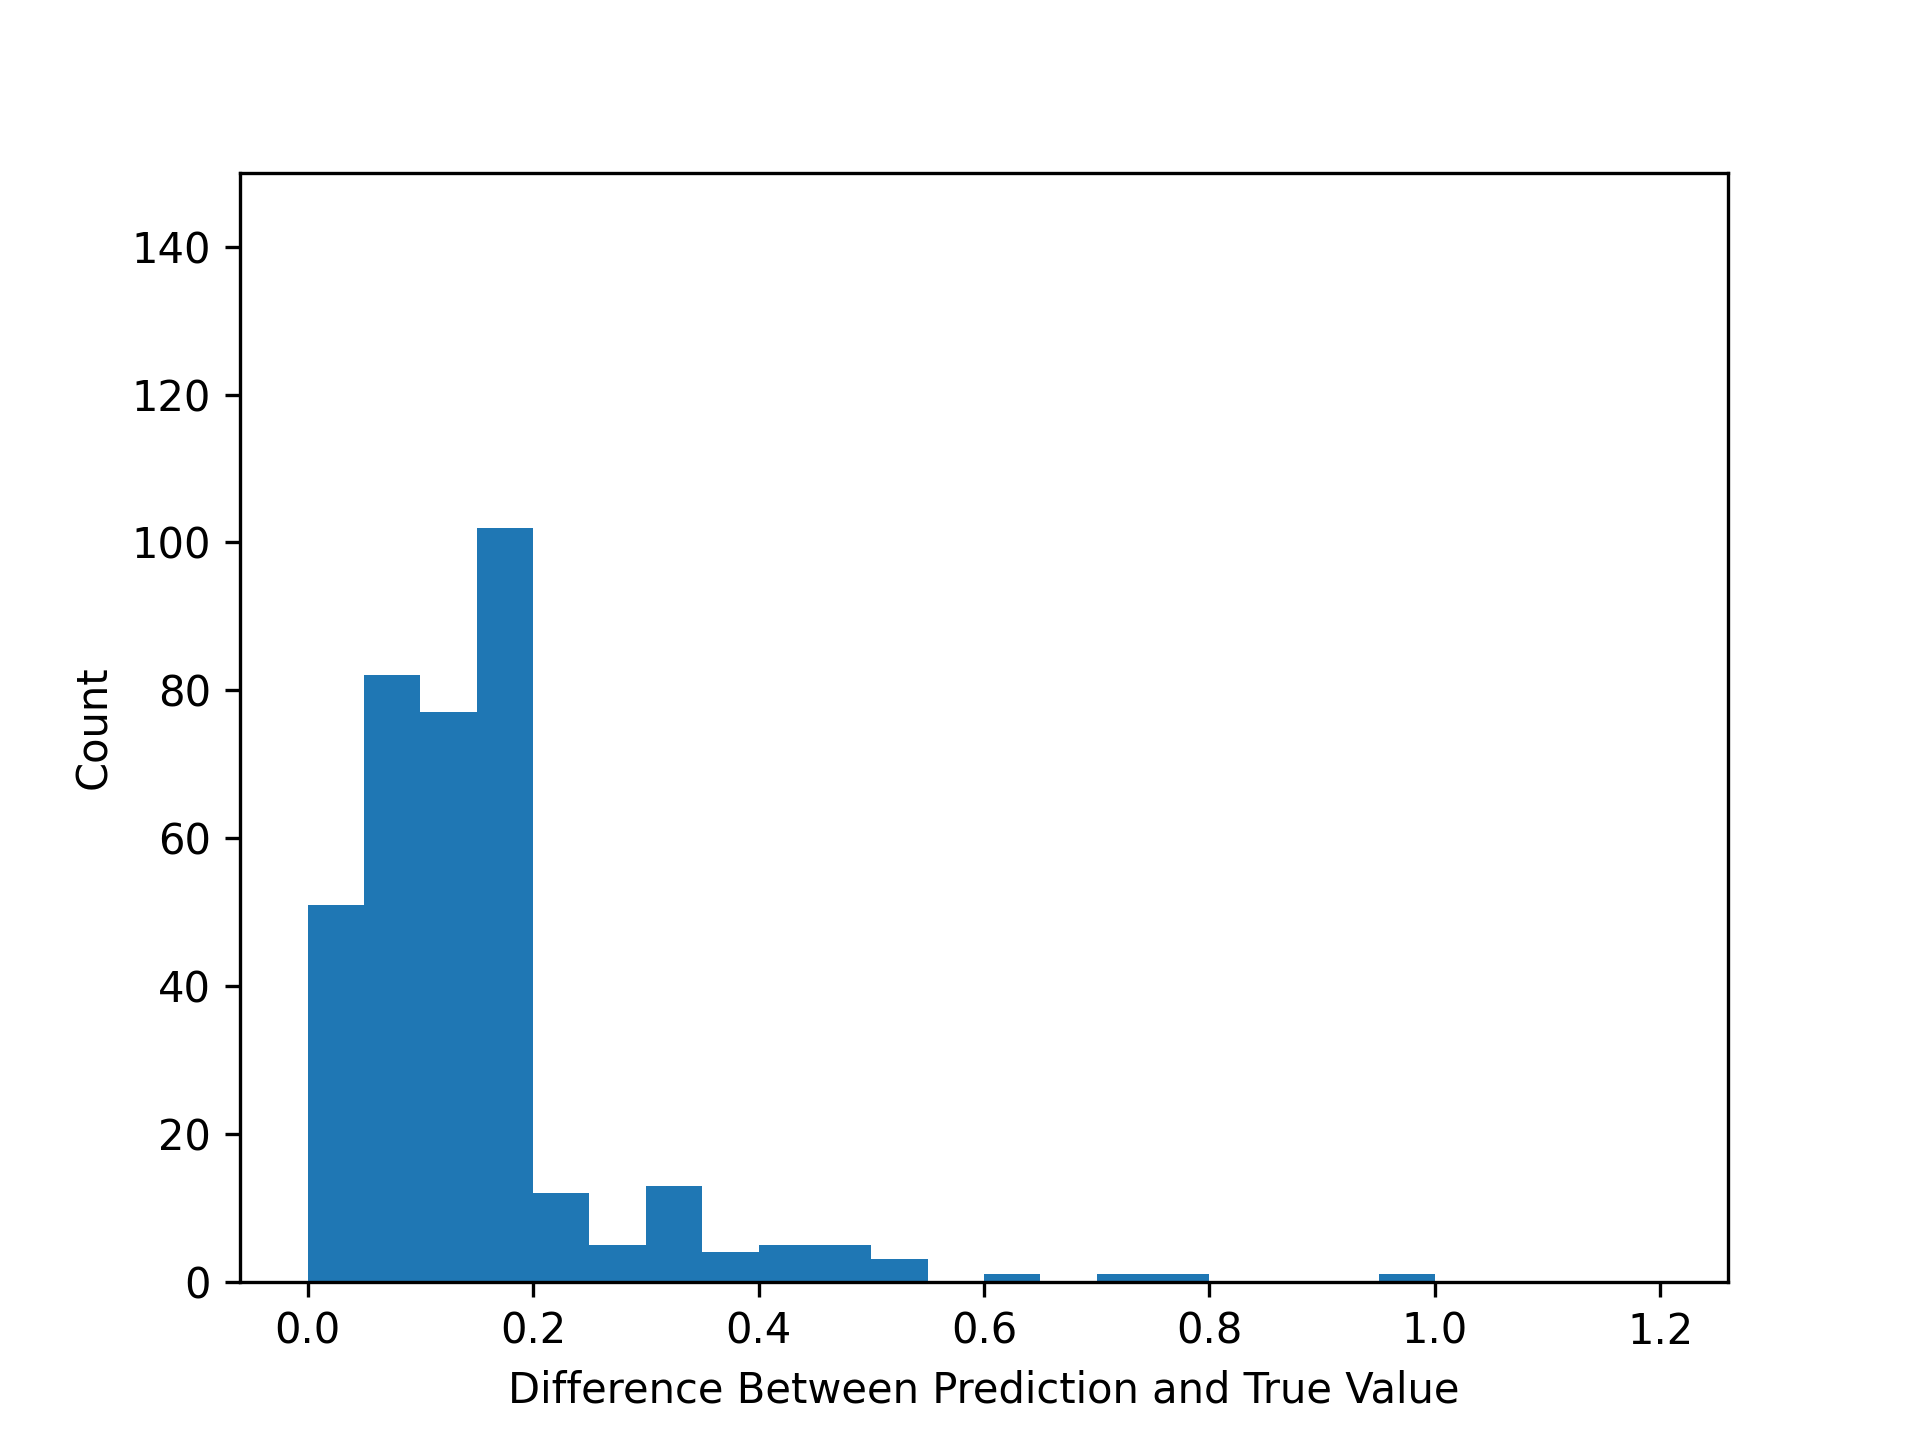
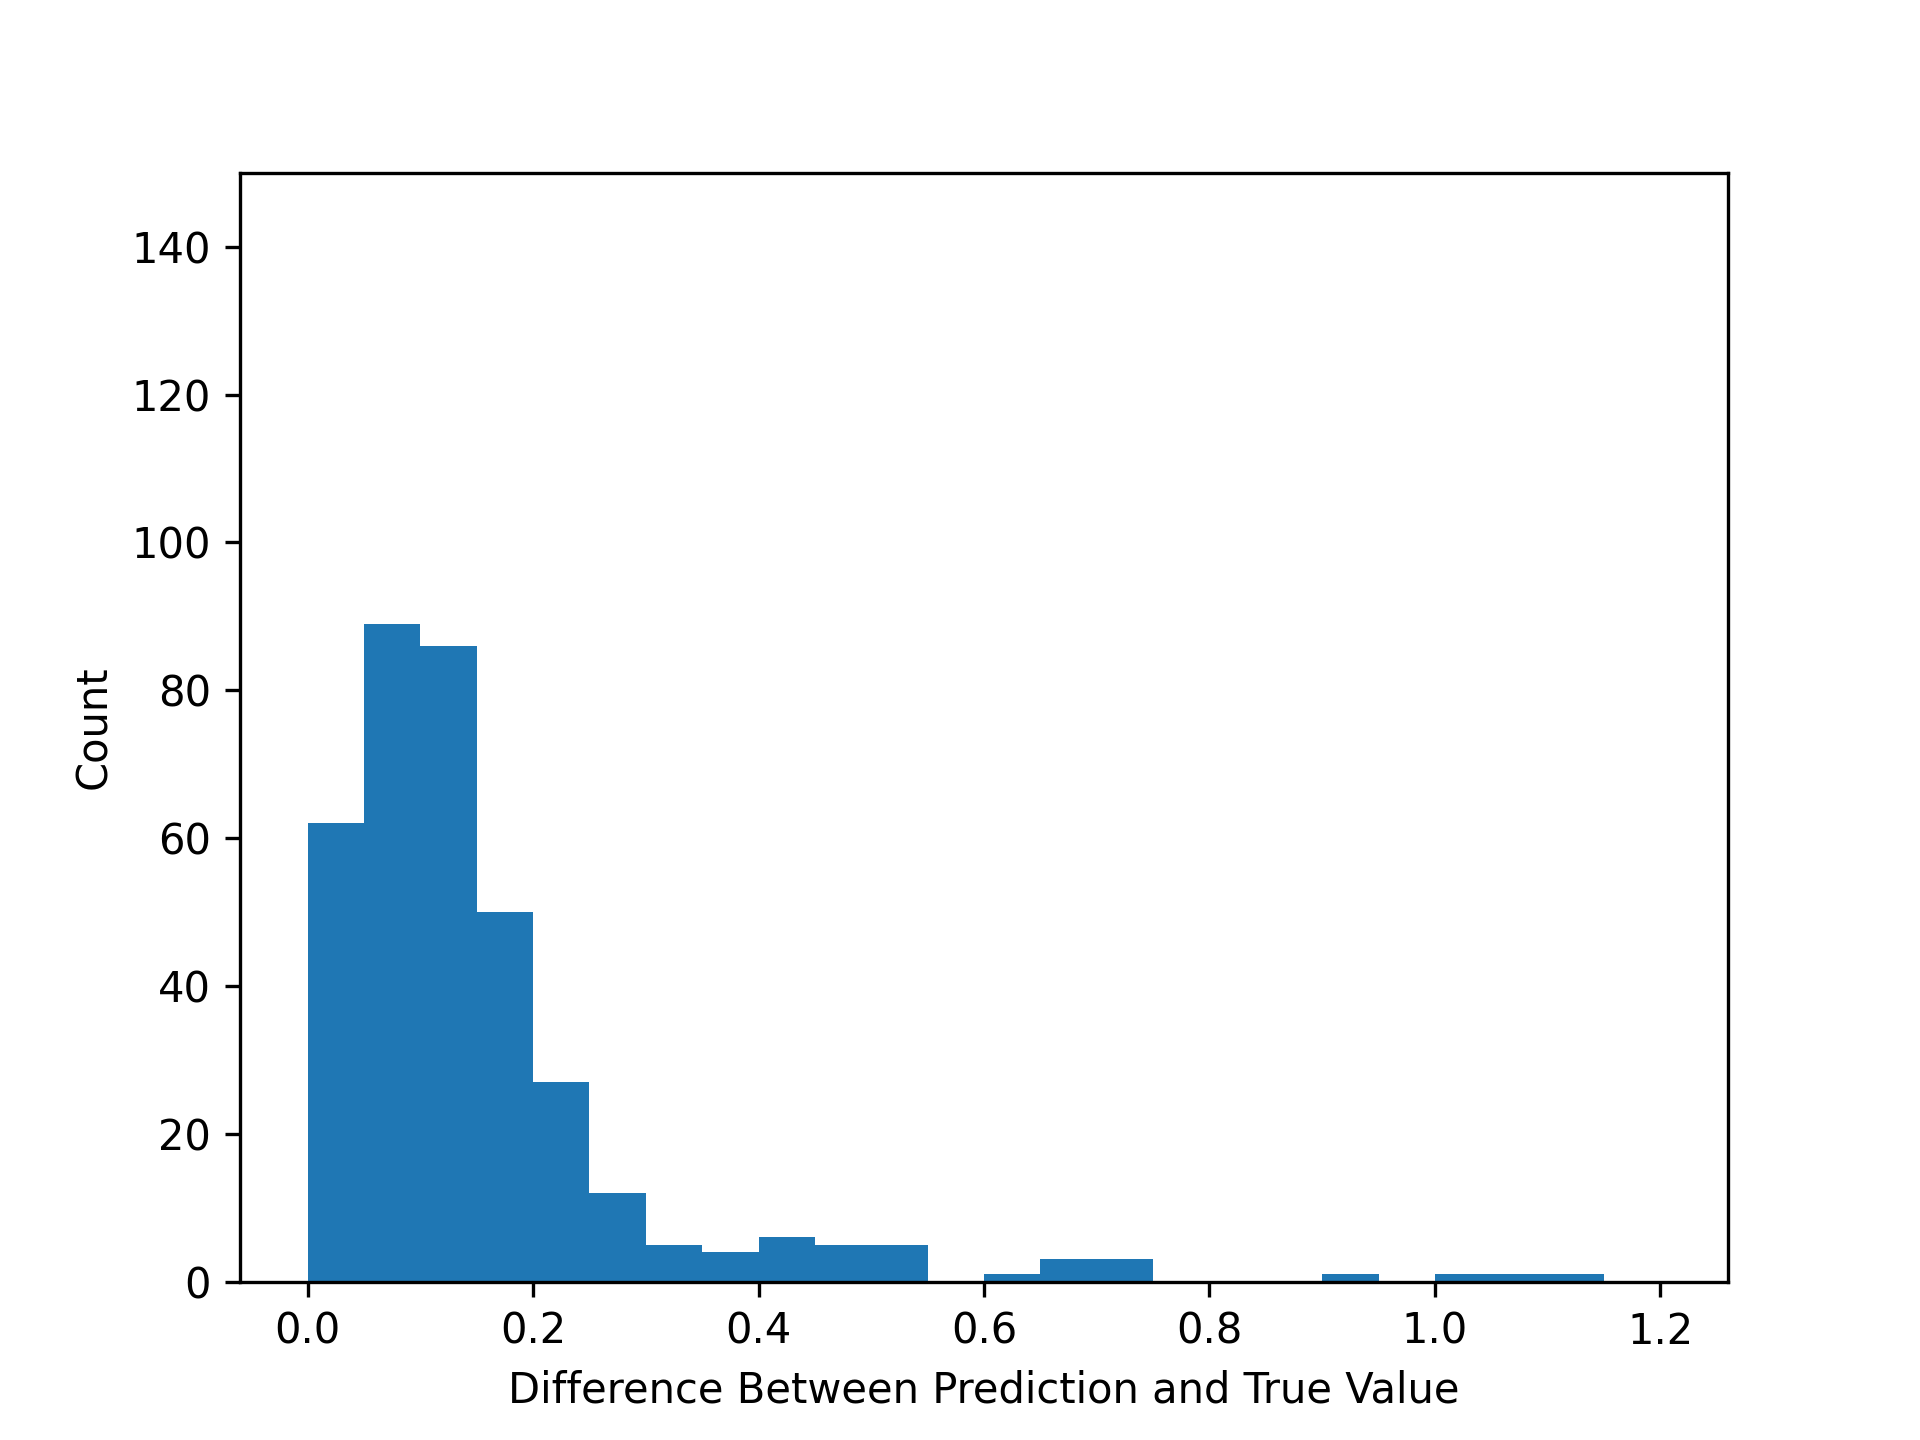
standardized features across models
standardized features across linear regression and random forest

diff --git a/baseline_linear_regression_best_features.py b/baseline_linear_regression_best_features.py
@@ -69,19 +69,20 @@ outcome2 = "Balance of Urban Investment Bond(CNY,B) / GDP(CNY,B)"
 features1 = [
     "Liability Ratio(%)", 
     "Debt Ratio(%)", 
-    "Comprehensive Financial Resources(CNY,B)",
+    "Growth Rate of GDP(%)",
     "Fiscal Self-sufficiency(%)",
-    "Revenue of Government-Managed Funds(CNY,B)", 
-    "Real Estate Investment(CNY,B)"
+    "Budget Revenue(CNY,B)",
+    "State-owned Land Transfer Income/Budget Revenue(%)"
 ]
-features1 = ["Debt Ratio(%)"]
 
 # optimal features for outcome 2
 features2 = [
-    "Comprehensive Financial Resources(CNY,B)", 
+    "Liability Ratio(%)", 
+    "Debt Ratio(%)", 
+    "Growth Rate of GDP(%)",
     "Fiscal Self-sufficiency(%)",
-    "Revenue of Government-Managed Funds(CNY,B)", 
-    "Real Estate Investment(CNY,B)" 
+    "Budget Revenue(CNY,B)",
+    "State-owned Land Transfer Income/Budget Revenue(%)"
 ]
 
 outcomes = [outcome1, outcome2] # list of possible outcomes 

diff --git a/random_forest_regressor.py b/random_forest_regressor.py
@@ -69,18 +69,20 @@ outcome2 = "Balance of Urban Investment Bond(CNY,B) / GDP(CNY,B)"
 features1 = [
     "Liability Ratio(%)", 
     "Debt Ratio(%)", 
-    "Comprehensive Financial Resources(CNY,B)",
+    "Growth Rate of GDP(%)",
     "Fiscal Self-sufficiency(%)",
-    "Revenue of Government-Managed Funds(CNY,B)", 
-    "Real Estate Investment(CNY,B)"
+    "Budget Revenue(CNY,B)",
+    "State-owned Land Transfer Income/Budget Revenue(%)"
 ]
 
 # optimal features for outcome 2
 features2 = [
-    "Comprehensive Financial Resources(CNY,B)", 
+    "Liability Ratio(%)", 
+    "Debt Ratio(%)", 
+    "Growth Rate of GDP(%)",
     "Fiscal Self-sufficiency(%)",
-    "Revenue of Government-Managed Funds(CNY,B)", 
-    "Real Estate Investment(CNY,B)" 
+    "Budget Revenue(CNY,B)",
+    "State-owned Land Transfer Income/Budget Revenue(%)"
 ]
 
 outcomes = [outcome1, outcome2] # list of possible outcomes 
